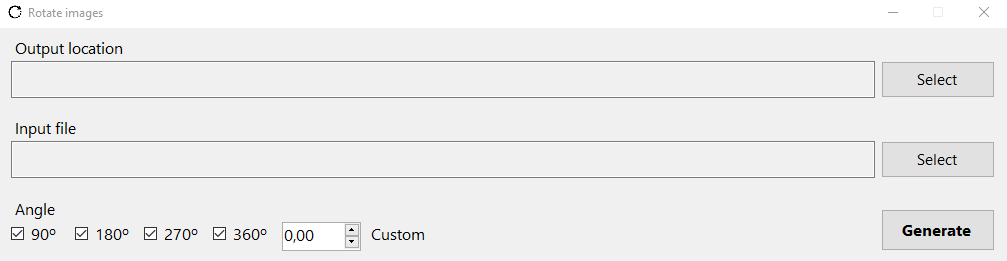
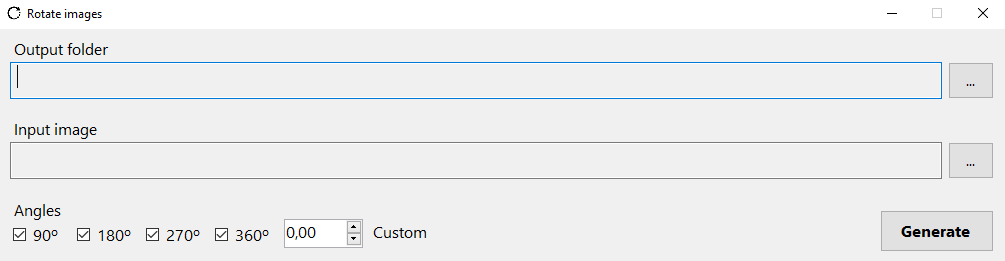
Fix validate fields required

diff --git a/RotateImageApp/FrmMain.Designer.cs b/RotateImageApp/FrmMain.Designer.cs
@@ -55,9 +55,9 @@ namespace RotateImageApp
             this.LblOutLocation.Font = new System.Drawing.Font("Segoe UI", 12F, System.Drawing.FontStyle.Regular, System.Drawing.GraphicsUnit.Point);
             this.LblOutLocation.Location = new System.Drawing.Point(12, 9);
             this.LblOutLocation.Name = "LblOutLocation";
-            this.LblOutLocation.Size = new System.Drawing.Size(118, 21);
+            this.LblOutLocation.Size = new System.Drawing.Size(104, 21);
             this.LblOutLocation.TabIndex = 0;
-            this.LblOutLocation.Text = "Output location";
+            this.LblOutLocation.Text = "Output folder";
             // 
             // TxtBOutputLoc
             // 
@@ -66,17 +66,17 @@ namespace RotateImageApp
             this.TxtBOutputLoc.Multiline = true;
             this.TxtBOutputLoc.Name = "TxtBOutputLoc";
             this.TxtBOutputLoc.ReadOnly = true;
-            this.TxtBOutputLoc.Size = new System.Drawing.Size(864, 37);
+            this.TxtBOutputLoc.Size = new System.Drawing.Size(932, 37);
             this.TxtBOutputLoc.TabIndex = 1;
             // 
             // BtnSelectOutput
             // 
             this.BtnSelectOutput.Font = new System.Drawing.Font("Segoe UI", 11.25F, System.Drawing.FontStyle.Regular, System.Drawing.GraphicsUnit.Point);
-            this.BtnSelectOutput.Location = new System.Drawing.Point(882, 33);
+            this.BtnSelectOutput.Location = new System.Drawing.Point(950, 33);
             this.BtnSelectOutput.Name = "BtnSelectOutput";
-            this.BtnSelectOutput.Size = new System.Drawing.Size(114, 37);
+            this.BtnSelectOutput.Size = new System.Drawing.Size(46, 37);
             this.BtnSelectOutput.TabIndex = 2;
-            this.BtnSelectOutput.Text = "Select";
+            this.BtnSelectOutput.Text = "...";
             this.BtnSelectOutput.UseVisualStyleBackColor = true;
             this.BtnSelectOutput.Click += new System.EventHandler(this.BtnSelectOutput_Click);
             // 
@@ -87,7 +87,7 @@ namespace RotateImageApp
             this.TxtBInputFile.Multiline = true;
             this.TxtBInputFile.Name = "TxtBInputFile";
             this.TxtBInputFile.ReadOnly = true;
-            this.TxtBInputFile.Size = new System.Drawing.Size(864, 37);
+            this.TxtBInputFile.Size = new System.Drawing.Size(932, 37);
             this.TxtBInputFile.TabIndex = 4;
             // 
             // lblFile
@@ -96,24 +96,20 @@ namespace RotateImageApp
             this.lblFile.Font = new System.Drawing.Font("Segoe UI", 12F, System.Drawing.FontStyle.Regular, System.Drawing.GraphicsUnit.Point);
             this.lblFile.Location = new System.Drawing.Point(12, 89);
             this.lblFile.Name = "lblFile";
-            this.lblFile.Size = new System.Drawing.Size(71, 21);
+            this.lblFile.Size = new System.Drawing.Size(93, 21);
             this.lblFile.TabIndex = 3;
-            this.lblFile.Text = "Input file";
+            this.lblFile.Text = "Input image";
             // 
             // BtnInputFile
             // 
             this.BtnInputFile.Font = new System.Drawing.Font("Segoe UI", 11.25F, System.Drawing.FontStyle.Regular, System.Drawing.GraphicsUnit.Point);
-            this.BtnInputFile.Location = new System.Drawing.Point(882, 113);
+            this.BtnInputFile.Location = new System.Drawing.Point(950, 113);
             this.BtnInputFile.Name = "BtnInputFile";
-            this.BtnInputFile.Size = new System.Drawing.Size(114, 37);
+            this.BtnInputFile.Size = new System.Drawing.Size(46, 37);
             this.BtnInputFile.TabIndex = 5;
-            this.BtnInputFile.Text = "Select";
+            this.BtnInputFile.Text = "...";
             this.BtnInputFile.UseVisualStyleBackColor = true;
             this.BtnInputFile.Click += new System.EventHandler(this.BtnInputFile_Click);
-            // 
-            // OfdInput
-            // 
-            this.OfdInput.FileName = "openFileDialog1";
             // 
             // LblOrientation
             // 
@@ -121,9 +117,9 @@ namespace RotateImageApp
             this.LblOrientation.Font = new System.Drawing.Font("Segoe UI", 12F, System.Drawing.FontStyle.Regular, System.Drawing.GraphicsUnit.Point);
             this.LblOrientation.Location = new System.Drawing.Point(12, 170);
             this.LblOrientation.Name = "LblOrientation";
-            this.LblOrientation.Size = new System.Drawing.Size(50, 21);
+            this.LblOrientation.Size = new System.Drawing.Size(57, 21);
             this.LblOrientation.TabIndex = 7;
-            this.LblOrientation.Text = "Angle";
+            this.LblOrientation.Text = "Angles";
             // 
             // CkB90
             // 
@@ -131,7 +127,7 @@ namespace RotateImageApp
             this.CkB90.Checked = true;
             this.CkB90.CheckState = System.Windows.Forms.CheckState.Checked;
             this.CkB90.Font = new System.Drawing.Font("Segoe UI", 12F, System.Drawing.FontStyle.Regular, System.Drawing.GraphicsUnit.Point);
-            this.CkB90.Location = new System.Drawing.Point(12, 194);
+            this.CkB90.Location = new System.Drawing.Point(15, 194);
             this.CkB90.Name = "CkB90";
             this.CkB90.Size = new System.Drawing.Size(54, 25);
             this.CkB90.TabIndex = 8;
@@ -144,7 +140,7 @@ namespace RotateImageApp
             this.CkB180.Checked = true;
             this.CkB180.CheckState = System.Windows.Forms.CheckState.Checked;
             this.CkB180.Font = new System.Drawing.Font("Segoe UI", 12F, System.Drawing.FontStyle.Regular, System.Drawing.GraphicsUnit.Point);
-            this.CkB180.Location = new System.Drawing.Point(76, 194);
+            this.CkB180.Location = new System.Drawing.Point(79, 194);
             this.CkB180.Name = "CkB180";
             this.CkB180.Size = new System.Drawing.Size(63, 25);
             this.CkB180.TabIndex = 9;
@@ -157,7 +153,7 @@ namespace RotateImageApp
             this.ckB270.Checked = true;
             this.ckB270.CheckState = System.Windows.Forms.CheckState.Checked;
             this.ckB270.Font = new System.Drawing.Font("Segoe UI", 12F, System.Drawing.FontStyle.Regular, System.Drawing.GraphicsUnit.Point);
-            this.ckB270.Location = new System.Drawing.Point(145, 194);
+            this.ckB270.Location = new System.Drawing.Point(148, 194);
             this.ckB270.Name = "ckB270";
             this.ckB270.Size = new System.Drawing.Size(63, 25);
             this.ckB270.TabIndex = 10;
@@ -170,7 +166,7 @@ namespace RotateImageApp
             this.CkB360.Checked = true;
             this.CkB360.CheckState = System.Windows.Forms.CheckState.Checked;
             this.CkB360.Font = new System.Drawing.Font("Segoe UI", 12F, System.Drawing.FontStyle.Regular, System.Drawing.GraphicsUnit.Point);
-            this.CkB360.Location = new System.Drawing.Point(214, 194);
+            this.CkB360.Location = new System.Drawing.Point(217, 194);
             this.CkB360.Name = "CkB360";
             this.CkB360.Size = new System.Drawing.Size(63, 25);
             this.CkB360.TabIndex = 11;
@@ -181,7 +177,7 @@ namespace RotateImageApp
             // 
             this.NUDCustom.DecimalPlaces = 2;
             this.NUDCustom.Font = new System.Drawing.Font("Segoe UI", 12F, System.Drawing.FontStyle.Regular, System.Drawing.GraphicsUnit.Point);
-            this.NUDCustom.Location = new System.Drawing.Point(283, 194);
+            this.NUDCustom.Location = new System.Drawing.Point(286, 190);
             this.NUDCustom.Maximum = new decimal(new int[] {
             360,
             0,
@@ -195,7 +191,7 @@ namespace RotateImageApp
             // 
             this.LblCustom.AutoSize = true;
             this.LblCustom.Font = new System.Drawing.Font("Segoe UI", 12F, System.Drawing.FontStyle.Regular, System.Drawing.GraphicsUnit.Point);
-            this.LblCustom.Location = new System.Drawing.Point(368, 195);
+            this.LblCustom.Location = new System.Drawing.Point(371, 192);
             this.LblCustom.Name = "LblCustom";
             this.LblCustom.Size = new System.Drawing.Size(64, 21);
             this.LblCustom.TabIndex = 13;

diff --git a/RotateImageApp/FrmMain.cs b/RotateImageApp/FrmMain.cs
@@ -45,6 +45,10 @@ namespace RotateImageApp
 
         private void BtnGenerate_Click(object sender, EventArgs e)
         {
+            bool isValid = ValidateFields();
+            if (!isValid)
+                return;
+
             string messageTitle = "Information";
             string messageInfo = "This operation will be generate images in folder selected with selected angles";
 
@@ -53,8 +57,8 @@ namespace RotateImageApp
             {
                 try
                 {
-                    string inputImage = OfdInput.FileName,
-                           outputImage = FbdOutput.SelectedPath;
+                    string inputImage = TxtBInputFile.Text,
+                           outputImage = TxtBOutputLoc.Text;
                     float[] angles = GenerateArrAngles();
 
                     ImageService.GenerateSaveImages(inputImage, outputImage, angles);
@@ -72,17 +76,41 @@ namespace RotateImageApp
             }
         }
 
+        private bool ValidateFields()
+        {
+            if (string.IsNullOrEmpty(TxtBOutputLoc.Text))
+            {
+                MessageBox.Show("Output location is required", "Output location required");
+                return false;
+            }
+
+            if (string.IsNullOrEmpty(TxtBInputFile.Text))
+            {
+                MessageBox.Show("Input image is required", "Input image required");
+                return false;
+            }
+
+            bool noAnglesSelected = !CkB90.Checked && !CkB180.Checked && !ckB270.Checked && !CkB360.Checked && NUDCustom.Value == 0;
+            if (noAnglesSelected)
+            {
+                MessageBox.Show("It is mandatory to inform at least one angle", "Angle required");
+                return false;   
+            }
+
+            return true;
+        }
+
         private float[] GenerateArrAngles()
         {
             IList<float> angles = new List<float>();
 
-            if(CkB90.Checked)
+            if (CkB90.Checked)
             {
                 angles.Add(90);
             }
 
-            if(CkB180.Checked)
-            {                
+            if (CkB180.Checked)
+            {
                 angles.Add(180);
             }
 
